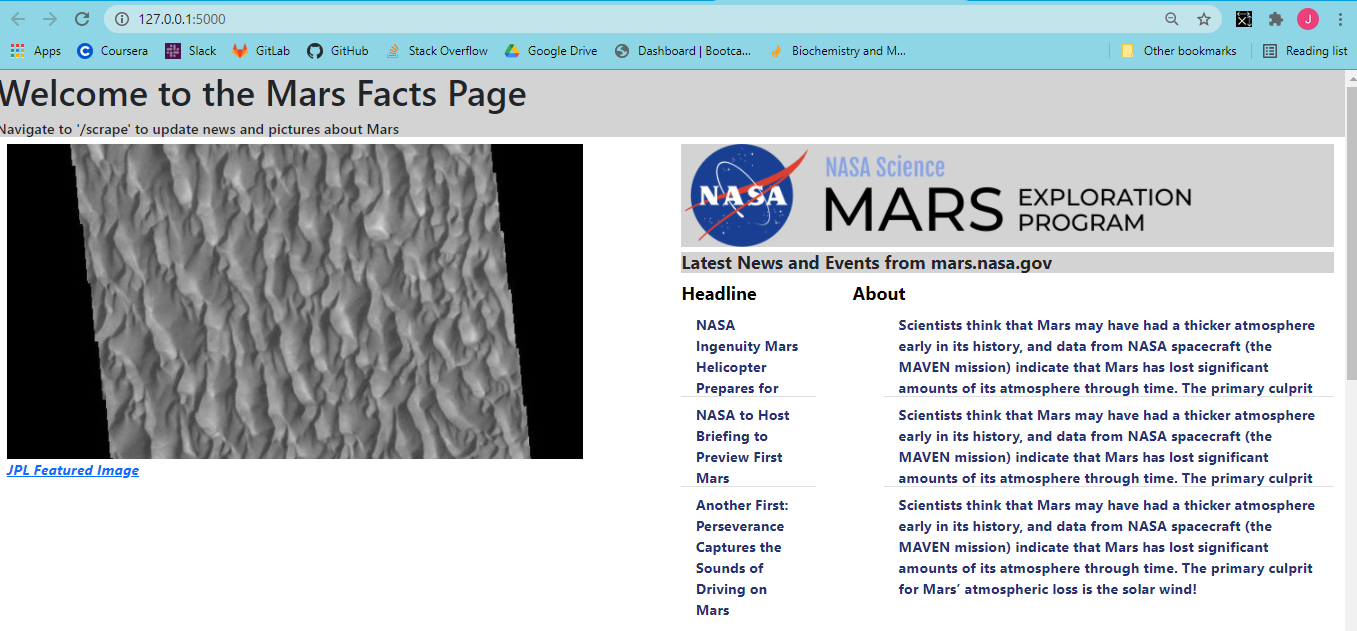
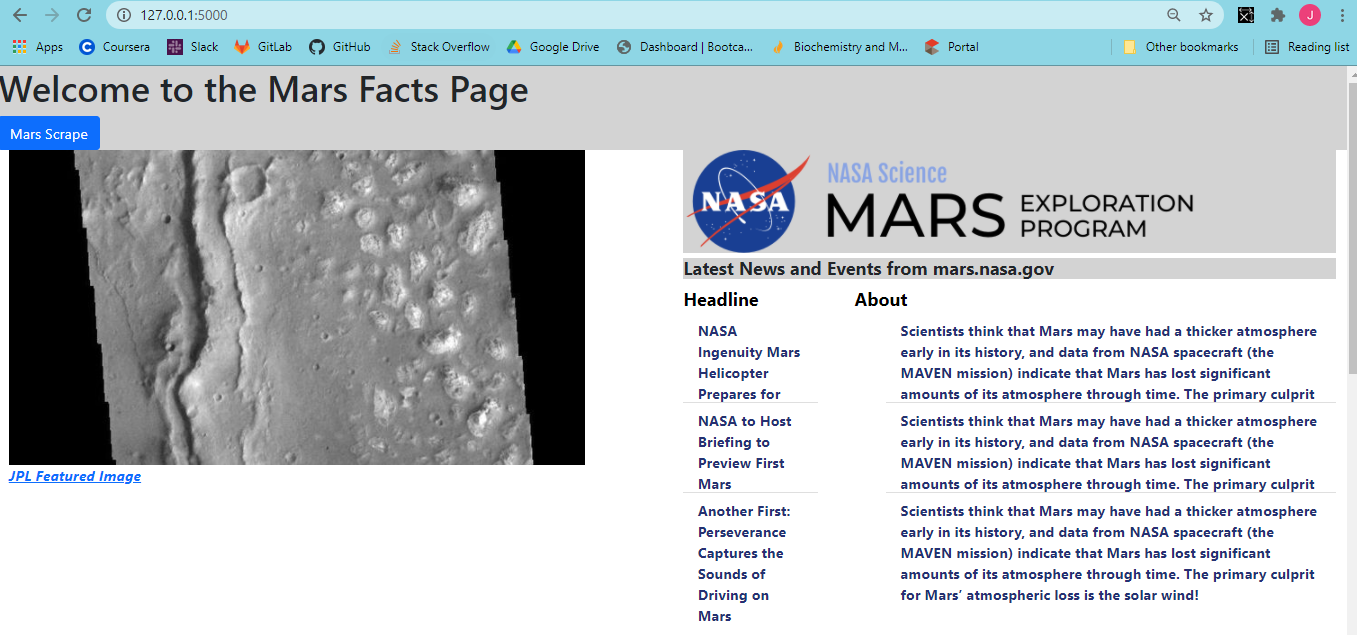
minor changes

Changed region(s): [[0.0, 0.0, 1.0, 0.9635], [0.4952, 0.5119, 0.5881, 0.9937]]

diff --git a/templates/index.html b/templates/index.html
@@ -13,7 +13,8 @@
 
     <header style = "background: lightgray;">
       <h1>Welcome to the Mars Facts Page</h1> 
-      <h6 class = "comp-p">Navigate to '/scrape' to update news and pictures about Mars</h6>  
+      <!-- <h6 class = "comp-p">Navigate to '/scrape' to update news and pictures about Mars</h6>   -->
+      <a class="btn btn-primary" href="/scrape" role="button">Mars Scrape</a>
     </header>
 
     <div class="container-fluid comp-container">
